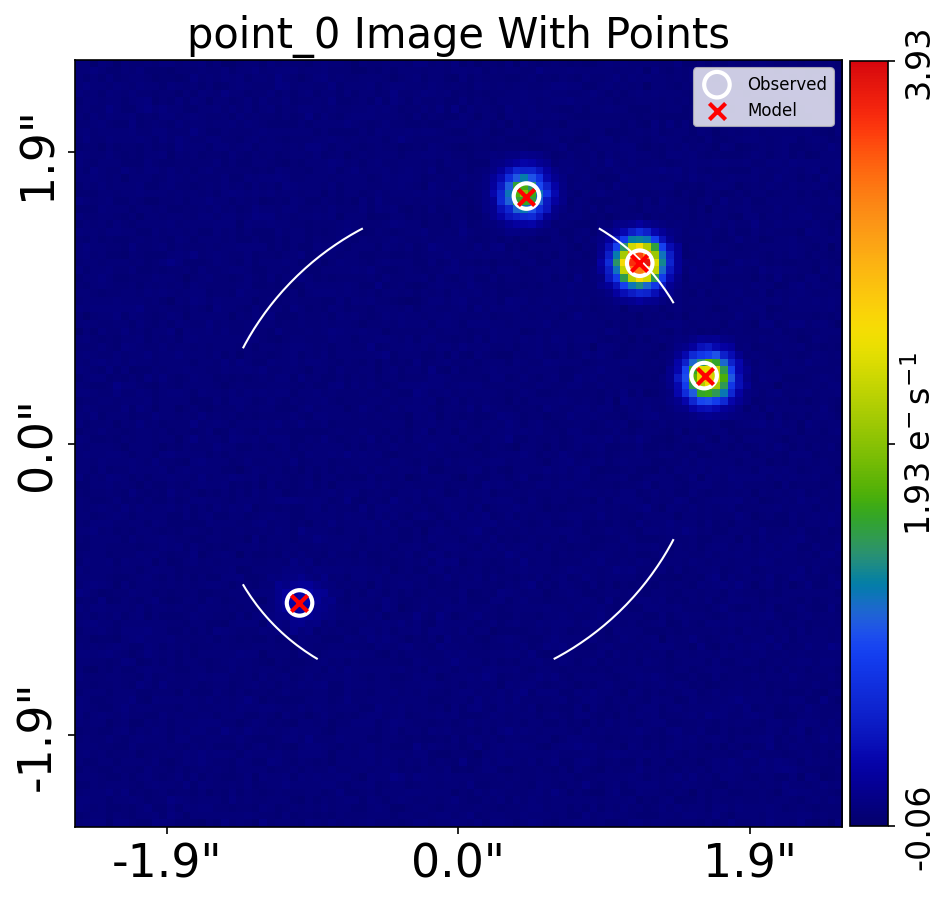
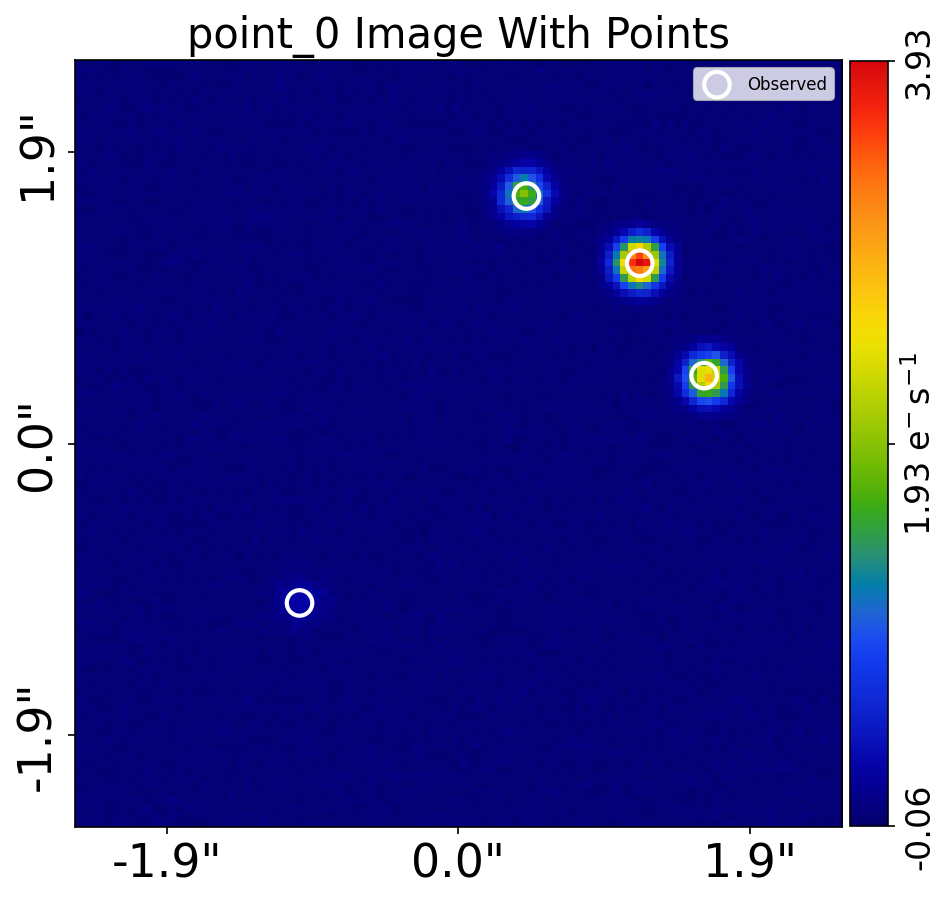
feat: point domains keep both image_with_points.png and fit_image_with_points.png (PyAutoLens#781)

diff --git a/scripts/point_source_source_chi_squared/visualization.py b/scripts/point_source_source_chi_squared/visualization.py
@@ -12,12 +12,14 @@ Output tree (wiped at the start of every run)::
     scripts/point_source_source_chi_squared/images/visualization/
         dataset.png   <- visualize_before_fit (the plotter writes dataset_point.png; renamed)
         fit.png       <- visualize(quick_update=True)
-        image_with_points.png <- visualize(quick_update=True): the observed positions and the
-                                 model's positions + critical curves over ``data.fits``
+        image_with_points.png     <- visualize_before_fit: the observed positions over
+                                     ``data.fits`` (dataset only, no model)
+        fit_image_with_points.png <- visualize(quick_update=True): the observed
+                                     positions and critical curves over ``data.fits`` (a
+                                     source-plane fit has no image-plane model positions)
 
-Every other file the visualizer writes is deleted: this domain tracks only these three
-figures. ``image_with_points.png`` is written before and after the fit to the same file;
-the kept one is the after-fit version, with the model positions.
+Every other file the visualizer writes is deleted: this domain tracks only these four
+figures.
 
 Dataset: ``dataset/point_source/simple`` (four image-plane positions, 5 mas noise; shared by
 both point-source chi-squared producers), from
@@ -70,8 +72,8 @@ dataset_path = ensure_dataset("point_source", workspace_root=REPO_ROOT)
 dataset = al.from_json(file_path=dataset_path / "point_dataset.json")
 
 """
-The accompanying imaging, used only for visualization (``image_with_points.png``), not in the
-likelihood.
+The accompanying imaging, used only for visualization (``image_with_points.png``,
+``fit_image_with_points.png``), not in the likelihood.
 """
 data = al.Array2D.from_fits(
     file_path=dataset_path / "data.fits", hdu=0, pixel_scales=tm.IMAGE_PIXEL_SCALES
@@ -131,7 +133,7 @@ VisualizerPoint.visualize(
     quick_update=True,
 )
 keep_dataset_and_fit(
-    image_path, dataset_png="dataset_point.png", extra_pngs=("image_with_points.png",)
+    image_path, dataset_png="dataset_point.png", extra_pngs=("image_with_points.png", "fit_image_with_points.png")
 )
 print(f"visualize: {time.perf_counter() - t0:.1f}s")
 print(

diff --git a/scripts/point_source_image_chi_squared/visualization.py b/scripts/point_source_image_chi_squared/visualization.py
@@ -12,12 +12,14 @@ Output tree (wiped at the start of every run)::
     scripts/point_source_image_chi_squared/images/visualization/
         dataset.png   <- visualize_before_fit (the plotter writes dataset_point.png; renamed)
         fit.png       <- visualize(quick_update=True)
-        image_with_points.png <- visualize(quick_update=True): the observed positions and the
-                                 model's positions + critical curves over ``data.fits``
+        image_with_points.png     <- visualize_before_fit: the observed positions over
+                                     ``data.fits`` (dataset only, no model)
+        fit_image_with_points.png <- visualize(quick_update=True): the observed
+                                     positions, the model's positions and critical curves over
+                                     ``data.fits``
 
-Every other file the visualizer writes is deleted: this domain tracks only these three
-figures. ``image_with_points.png`` is written before and after the fit to the same file;
-the kept one is the after-fit version, with the model positions.
+Every other file the visualizer writes is deleted: this domain tracks only these four
+figures.
 
 Dataset: ``dataset/point_source/simple`` (four image-plane positions, 5 mas noise; shared by
 both point-source chi-squared producers), from
@@ -70,8 +72,8 @@ dataset_path = ensure_dataset("point_source", workspace_root=REPO_ROOT)
 dataset = al.from_json(file_path=dataset_path / "point_dataset.json")
 
 """
-The accompanying imaging, used only for visualization (``image_with_points.png``), not in the
-likelihood.
+The accompanying imaging, used only for visualization (``image_with_points.png``,
+``fit_image_with_points.png``), not in the likelihood.
 """
 data = al.Array2D.from_fits(
     file_path=dataset_path / "data.fits", hdu=0, pixel_scales=tm.IMAGE_PIXEL_SCALES
@@ -130,7 +132,7 @@ VisualizerPoint.visualize(
     quick_update=True,
 )
 keep_dataset_and_fit(
-    image_path, dataset_png="dataset_point.png", extra_pngs=("image_with_points.png",)
+    image_path, dataset_png="dataset_point.png", extra_pngs=("image_with_points.png", "fit_image_with_points.png")
 )
 print(f"visualize: {time.perf_counter() - t0:.1f}s")
 print(

diff --git a/scripts/misc/simulators/point_source.py b/scripts/misc/simulators/point_source.py
@@ -6,7 +6,8 @@ Simulates the point-source dataset of ``true_models.point_source`` — the image
 of one point source (``point_0``) behind an isothermal lens — and writes
 ``point_dataset.json`` (the ``PointDataset``, positions only) and ``tracer.json`` into
 ``dataset/point_source/simple/``, plus the accompanying imaging (``data.fits``, ``psf.fits``,
-``noise_map.fits``) the producers plot the positions over (``image_with_points.png``).
+``noise_map.fits``) the producers plot the positions over (``image_with_points.png`` and
+``fit_image_with_points.png``).
 
 The imaging places one unlensed ``al.lp.PointSource`` per noisy image position on an
 image-plane galaxy at the lens redshift (a delta function is not lensed: its multiple images

diff --git a/_viz_cli.py b/_viz_cli.py
@@ -181,8 +181,8 @@ def keep_dataset_and_fit(
     plotter's ``dataset_point.png``); they are renamed to ``dataset.png`` / ``fit.png``. Every
     other file (other PNGs, FITS, CSV, JSON) and any sub-folder is deleted, so the newer
     domains track only the two figures. ``extra_pngs`` names further figures to keep under their
-    own names (e.g. the point plotter's ``image_with_points.png``). Raises if any expected figure
-    is missing.
+    own names (e.g. the point plotter's ``image_with_points.png`` and
+    ``fit_image_with_points.png``). Raises if any expected figure is missing.
     """
     image_dir = Path(image_dir)
     kept = []

diff --git a/GALLERY.md b/GALLERY.md
@@ -2,7 +2,7 @@
 
 <!-- Generated by gallery/gallery_build.py from scripts/<domain>/images/. Do not edit by hand: rerun `bash gallery/gallery_run.sh --all`. -->
 
-Rendered with PyAutoLens `2026.8.17.1` · 66 figures.
+Rendered with PyAutoLens `2026.8.17.1` · 68 figures.
 
 Every figure below is what the PyAutoLens visualizers (`VisualizerImaging`, `VisualizerInterferometer`, `VisualizerPoint`, `VisualizerWeak`) write to a model-fit's `image/` folder, rendered on this repo's datasets with the true model. See [README.md](README.md) for how to improve one.
 
@@ -38,10 +38,10 @@ Every figure below is what the PyAutoLens visualizers (`VisualizerImaging`, `Vis
   - [visualization](#multi_galaxy--visualization) (2 figures)
     - [top level](#multi_galaxy--visualization--top-level)
 - [point_source_image_chi_squared](#point_source_image_chi_squared)
-  - [visualization](#point_source_image_chi_squared--visualization) (3 figures)
+  - [visualization](#point_source_image_chi_squared--visualization) (4 figures)
     - [top level](#point_source_image_chi_squared--visualization--top-level)
 - [point_source_source_chi_squared](#point_source_source_chi_squared)
-  - [visualization](#point_source_source_chi_squared--visualization) (3 figures)
+  - [visualization](#point_source_source_chi_squared--visualization) (4 figures)
     - [top level](#point_source_source_chi_squared--visualization--top-level)
 - [weak](#weak)
   - [visualization](#weak--visualization) (2 figures)
@@ -351,6 +351,10 @@ Every figure below is what the PyAutoLens visualizers (`VisualizerImaging`, `Vis
 
 ![fit](scripts/point_source_image_chi_squared/images/visualization/fit.png)
 
+##### fit_image_with_points
+
+![fit_image_with_points](scripts/point_source_image_chi_squared/images/visualization/fit_image_with_points.png)
+
 ##### image_with_points
 
 ![image_with_points](scripts/point_source_image_chi_squared/images/visualization/image_with_points.png)
@@ -368,6 +372,10 @@ Every figure below is what the PyAutoLens visualizers (`VisualizerImaging`, `Vis
 ##### fit
 
 ![fit](scripts/point_source_source_chi_squared/images/visualization/fit.png)
+
+##### fit_image_with_points
+
+![fit_image_with_points](scripts/point_source_source_chi_squared/images/visualization/fit_image_with_points.png)
 
 ##### image_with_points
 
